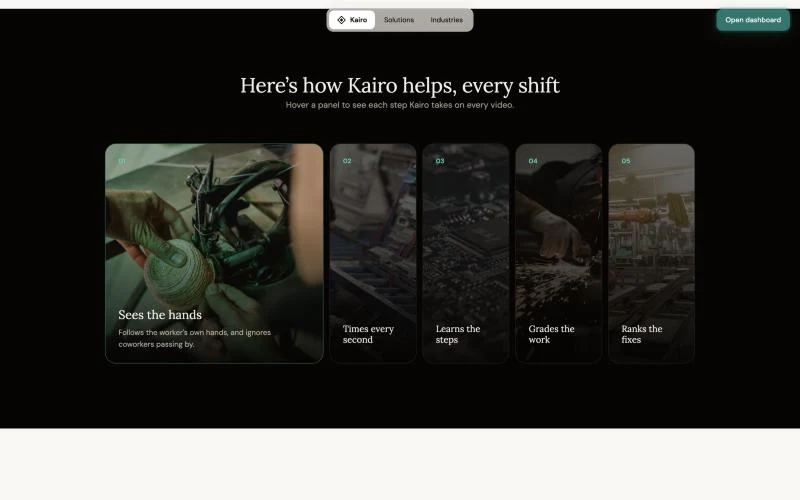
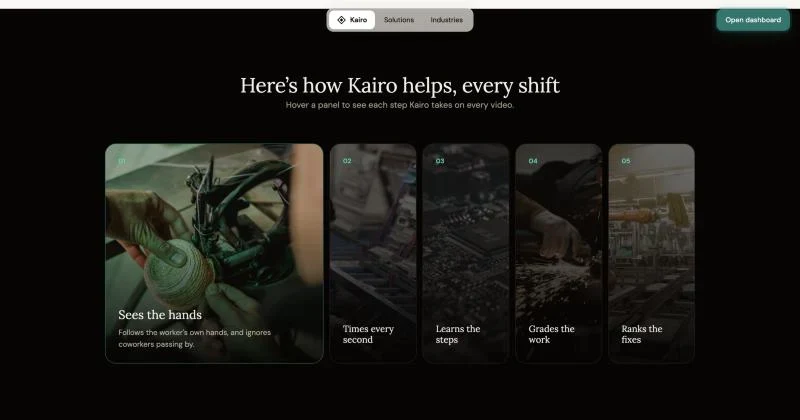
Crop white band from screenshots; use the landing panel shot as the top hero too

diff --git a/README.md b/README.md
@@ -19,7 +19,7 @@ with a minutes-per-shift number attached. Every claim links to the second of vid
 
 <br />
 
-<a href="https://kairo-61lz.onrender.com"><img src="docs/screenshots/landing-sharp.webp" width="900" alt="The Kairo landing page: 'You run the factory. Not the stopwatch.'" /></a>
+<a href="https://kairo-61lz.onrender.com"><img src="docs/screenshots/how-it-helps.webp" width="900" alt="The Kairo landing page: Here's how Kairo helps, every shift" /></a>
 
 <sub>Built for the **BIOS Hackathon 2026** by team **DefectIQ**.</sub>
 
